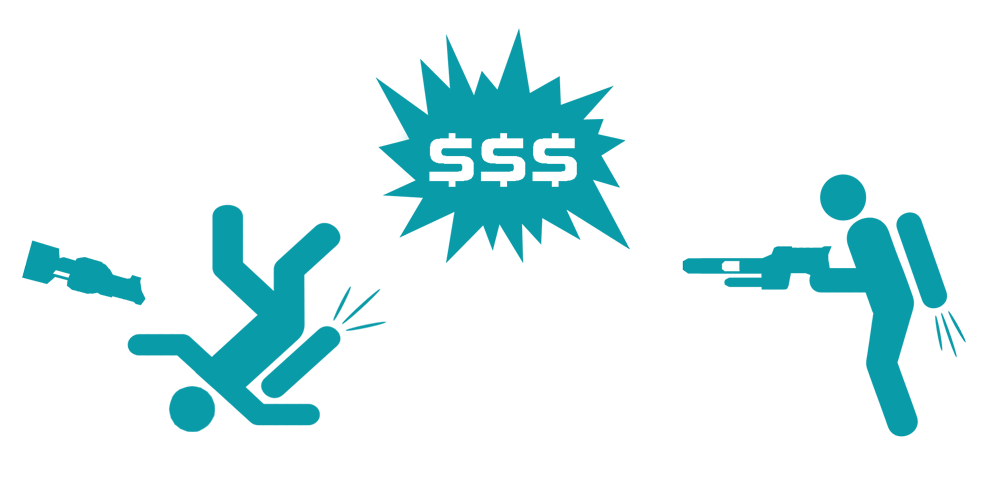
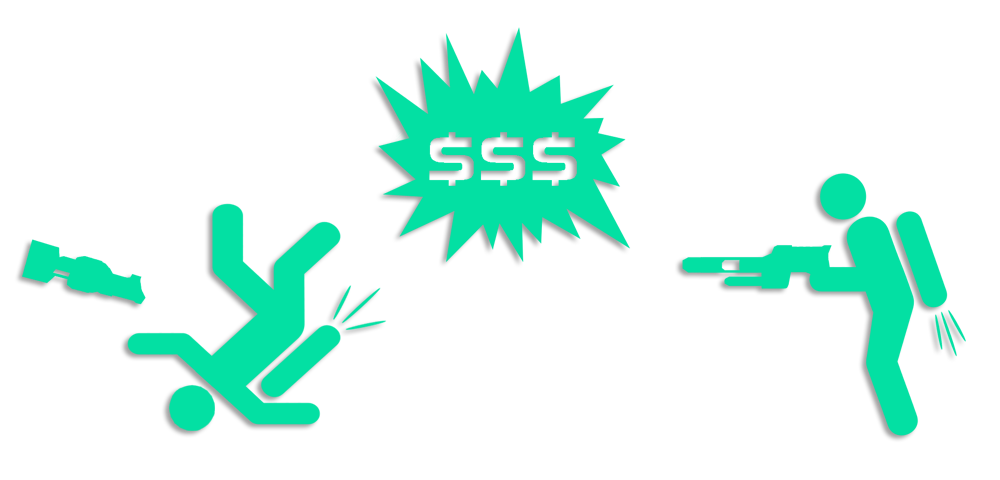
Guides

diff --git a/guides.html b/guides.html
@@ -689,7 +689,7 @@
 							<header>
 								<h2 style="color: var(--accent) !important; font-size: 1.6rem; letter-spacing: -0.01em;">LakRabbit</h2>
 								<p class="section-label">The gamemode that'll be here after you're gone</p>
-								<div class="hero-sub"><img src="images/guides/chaching.png" width="800" alt="" style="border: 0;width: 100%;max-width: 500px;height: auto;"></div>
+								<div class="hero-sub"><img src="images/guides/chaching.png" width="500" alt="" style="border: 0;width: 100%;max-width: 1000px;height: auto;"></div>
 							</header>
 
 							<div class="armor-window2">